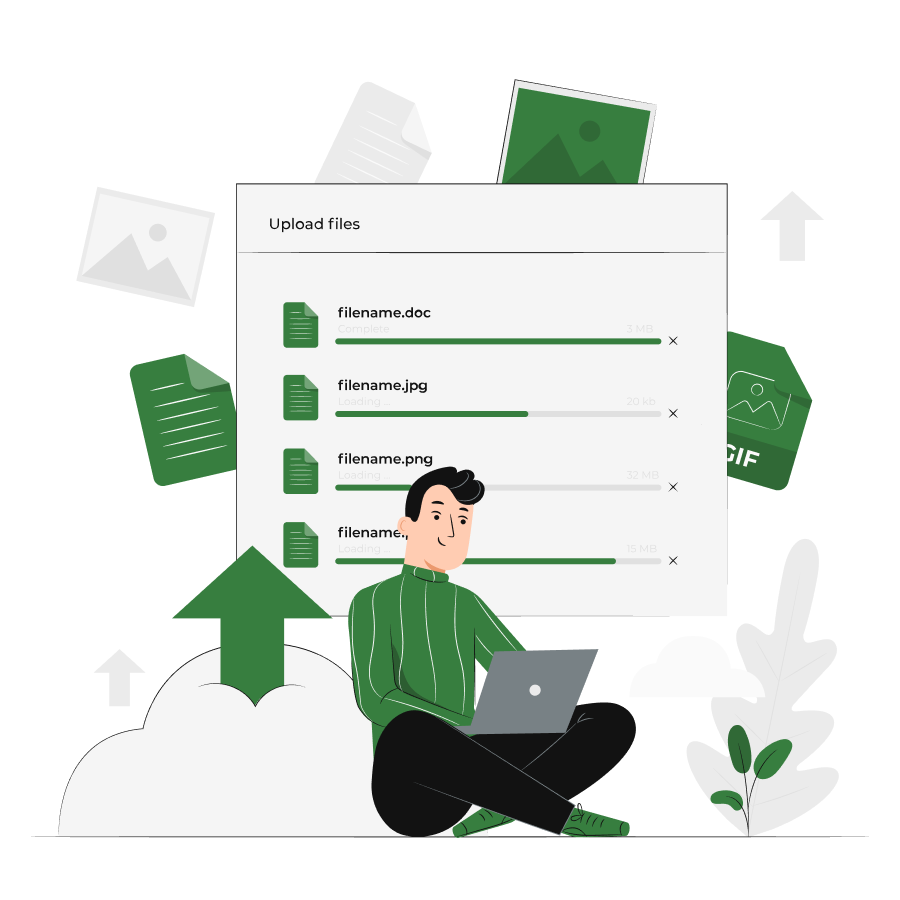
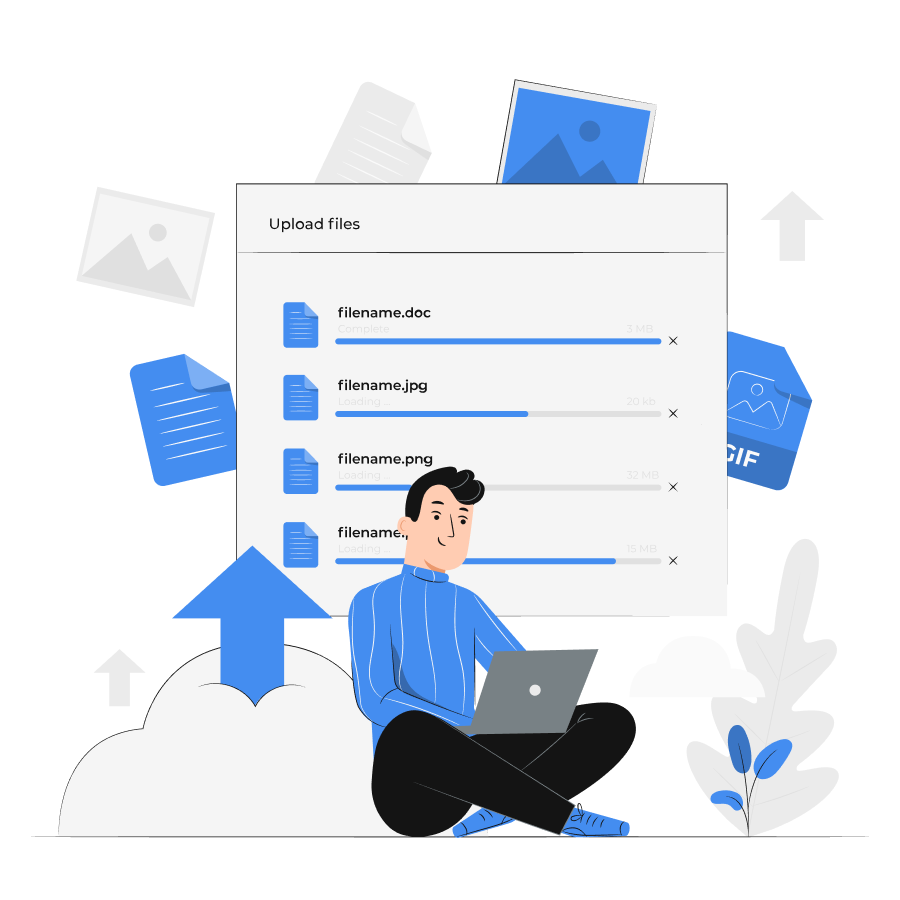
images are chaange

diff --git a/src/components/LoginSignupVerifyForgetPass/LoginSignupVerifyForgetPassComponents.jsx b/src/components/LoginSignupVerifyForgetPass/LoginSignupVerifyForgetPassComponents.jsx
@@ -39,17 +39,17 @@ const cssStyle = {
         width: "100%",
         marginBottom: "5px",
         '& .MuiInputLabel-root': {
-            color: '#377E3F', // default label color
+            color: '#1c529b', // default label color
         },
         '& .MuiOutlinedInput-root': {
             '& fieldset': {
-                borderColor: '#377E3F' // default border color
+                borderColor: 'primary' // default border color
             },
             '&:hover fieldset': {
-                borderColor: '#377E3F' // border color on hover
+                borderColor: 'primary' // border color on hover
             },
             '&.Mui-focused fieldset ': {
-                borderColor: '#377E3F' // border color when focused
+                borderColor: 'primary' // border color when focused
             },
 
         }
@@ -358,9 +358,9 @@ const LoginSignupVerifyForgetPassComponents = ({ serviceType }) => {
                                             sx={{
                                                 ...cssStyle.btn_textfield,
                                                 height: "50px", position: "relative",
-                                                backgroundColor: "#225127e6",
+                                                backgroundColor: "primary",
                                                 '&:hover': {
-                                                    backgroundColor: '#377E3F' // background color on hover
+                                                    backgroundColor: '#1c529b' // background color on hover
                                                 }
                                             }}
                                             disabled={btnDisabed || isLoadingSignUpFun}
@@ -376,7 +376,7 @@ const LoginSignupVerifyForgetPassComponents = ({ serviceType }) => {
                                                         right: '3%',
                                                         marginTop: -12,
                                                         marginLeft: -12,
-                                                        color: "#225127e6"
+                                                        color: "primary"
                                                     }}
                                                 />
                                             )}
@@ -446,7 +446,7 @@ const LoginSignupVerifyForgetPassComponents = ({ serviceType }) => {
                                     </Grid>
                                     <Grid item xs={12} sx={cssStyle.grid_textBox_button}>
                                         <Typography variant="subtitle1" align='center' fontWeight='400' color="#333333">
-                                            Didn’t receive OTP? <span style={{ fontWeight: 700, color: "#225127e6" }}>Resend</span>
+                                            Didn’t receive OTP? <span style={{ fontWeight: 700, color: "#1c529b" }}>Resend</span>
                                         </Typography>
                                     </Grid>
                                     <Grid item xs={12} sx={cssStyle.grid_textBox_button}>
@@ -454,9 +454,9 @@ const LoginSignupVerifyForgetPassComponents = ({ serviceType }) => {
                                             sx={{
                                                 ...cssStyle.btn_textfield,
                                                 height: "50px", position: "relative",
-                                                backgroundColor: "#225127e6",
+                                                backgroundColor: "primary",
                                                 '&:hover': {
-                                                    backgroundColor: '#377E3F' // background color on hover
+                                                    backgroundColor: '#1c529b' // background color on hover
                                                 }
                                             }}
                                             disabled={verifyBtnDisable}
@@ -472,7 +472,7 @@ const LoginSignupVerifyForgetPassComponents = ({ serviceType }) => {
                                                         right: '3%',
                                                         marginTop: -12,
                                                         marginLeft: -12,
-                                                        color: "#225127e6"
+                                                        color: "#1c529b"
                                                     }}
                                                 />
                                             )}

diff --git a/src/components/LeftSideBar/LeftSideBar.jsx b/src/components/LeftSideBar/LeftSideBar.jsx
@@ -495,7 +495,7 @@ const LeftSideBar = (props) => {
                                     color: "#333333e8", backgroundColor: "#534d4d14", position: "relative"
                                 }}
                             >
-                                <BusinessIcon /><span style={{ position: "absolute", marginTop: "3px", marginLeft: "5px" }}>{comNameSave.length !== 0 && comNameSave[0].companyName}</span>
+                                <BusinessIcon /><span style={{ position: "absolute", marginTop: "3px", marginLeft: "5px", textTransform: "capitalize" }}>{comNameSave.length !== 0 && comNameSave[0].companyName}</span>
                             </Typography>
                         </Box>
                         {/* <Select
@@ -525,7 +525,7 @@ const LeftSideBar = (props) => {
                                 endIcon={<KeyboardArrowDownIcon sx={{ position: "absolute", right: "10px", top: "8px" }} />}
                             >
                                 <GroupAddIcon sx={{ fontSize: "18px", marginRight: "8px" }} />
-                                <span style={{ fontSize: "13px", textTransform: "capitalize", paddingTop: "2px" }}>
+                                <span style={{ fontSize: "13px", textTransform: "capitalize", paddingTop: "2px", }}>
                                     Channels
                                 </span>
                             </Button>

diff --git a/src/pages/ContentModels.jsx b/src/pages/ContentModels.jsx
@@ -327,7 +327,7 @@ const ContentModels = ({
                 console.log("Something is wrong error get  when user list get", err);
             });
         }
-    }, [user_id ,location]);
+    }, [user_id, location]);
 
 
 
@@ -697,7 +697,11 @@ const ContentModels = ({
                         <Box sx={{ width: "100%" }} display={"flex"} justifyContent="space-between">
                             <Box px={"25px"} py={"15px"} sx={{ width: "100%", cursor: "pointer" }} display={"flex"}>
                                 <AddIcon />
-                                <Typography onClick={() => navigate("/upload")} variant="subtitle2" >Add new file</Typography>
+                                <Typography
+                                    onClick={() => navigate("/upload")}
+                                    variant="subtitle2" >
+                                    Add new file
+                                </Typography>
                             </Box>
                             <Box px={"15px"} py={1.5} container sx={{ width: "100%" }} gap={2} display="flex" justifyContent={"end"}>
                                 <Button

diff --git a/src/components/FileUploadModal/FileUploadModal.jsx b/src/components/FileUploadModal/FileUploadModal.jsx
@@ -309,7 +309,7 @@ const FileUploadModal = ({ handleClose, open, setJsonData, handleClickOpen, user
                             <Button
                                 sx={{
                                     paddingLeft: "25px", paddingRight: '25px',
-                                    backgroundColor: "#03CF80", textTransform: "capitalize"
+                                    backgroundColor: "primary", textTransform: "capitalize"
                                 }}
                                 size='small'
                                 variant='contained'
@@ -326,7 +326,7 @@ const FileUploadModal = ({ handleClose, open, setJsonData, handleClickOpen, user
                                             right: '3%',
                                             marginTop: -12,
                                             marginLeft: -12,
-                                            color: "#225127e6"
+                                            color: "primary"
                                         }}
                                     />
                                 )}

diff --git a/src/pages/MyMessage.jsx b/src/pages/MyMessage.jsx
@@ -49,7 +49,9 @@ const MyMessage = () => {
                                 <Typography variant="subtitle1" fontWeight={"500"} >No data added yet</Typography>
                             </Grid>
                             <Grid container item xs={12} mt={2} display="flex" justifyContent={'center'}>
-                                <Typography sx={{ width: { sm: "75%", md: "45%" } }} color="#808191" variant="body2" textAlign={'center'} textTransform={'capitalize'}>
+                                <Typography sx={{ width: { sm: "75%", md: "45%" } }}
+                                 color="#808191" variant="body2" 
+                                 textAlign={'center'} textTransform={'capitalize'}>
                                     It is a long established fact that a reader will be distracted by the readable content of a page when looking at its layout.
                                 </Typography>
                             </Grid>

diff --git a/src/pages/FileUpload.jsx b/src/pages/FileUpload.jsx
@@ -37,7 +37,8 @@ const FileUpload = () => {
                         </Typography>
                     </Grid>
                     <Grid container item xs={12} mt={2} display="flex" justifyContent={'center'}>
-                        <Button variant="contained" onClick={() => handleClickOpen()} size='small' sx={{ padding: "5px 25px" }}>
+                        <Button variant="contained" onClick={() => handleClickOpen()} size='small'
+                         sx={{ padding: "5px 25px" }}>
                             Upload Data
                         </Button>
                     </Grid>

diff --git a/src/index.css b/src/index.css
@@ -24,17 +24,17 @@ code {
   box-sizing: border-box;
   border: 0.1rem solid #aaa;
   border-radius: 0.5rem;
-  color: #377E3F;
+  color: #1c529b;
   font-size: 2.5rem;
   font-weight: 500;
   text-align: center;
   margin: 0px 4px;
-  border-color:#377E3F;
+  border-color:#1c529b;
 
 }
 
 .otp-field__input:focus {
-  border-color:#377E3F;
+  border-color:#1c529b;
   
 }
 
